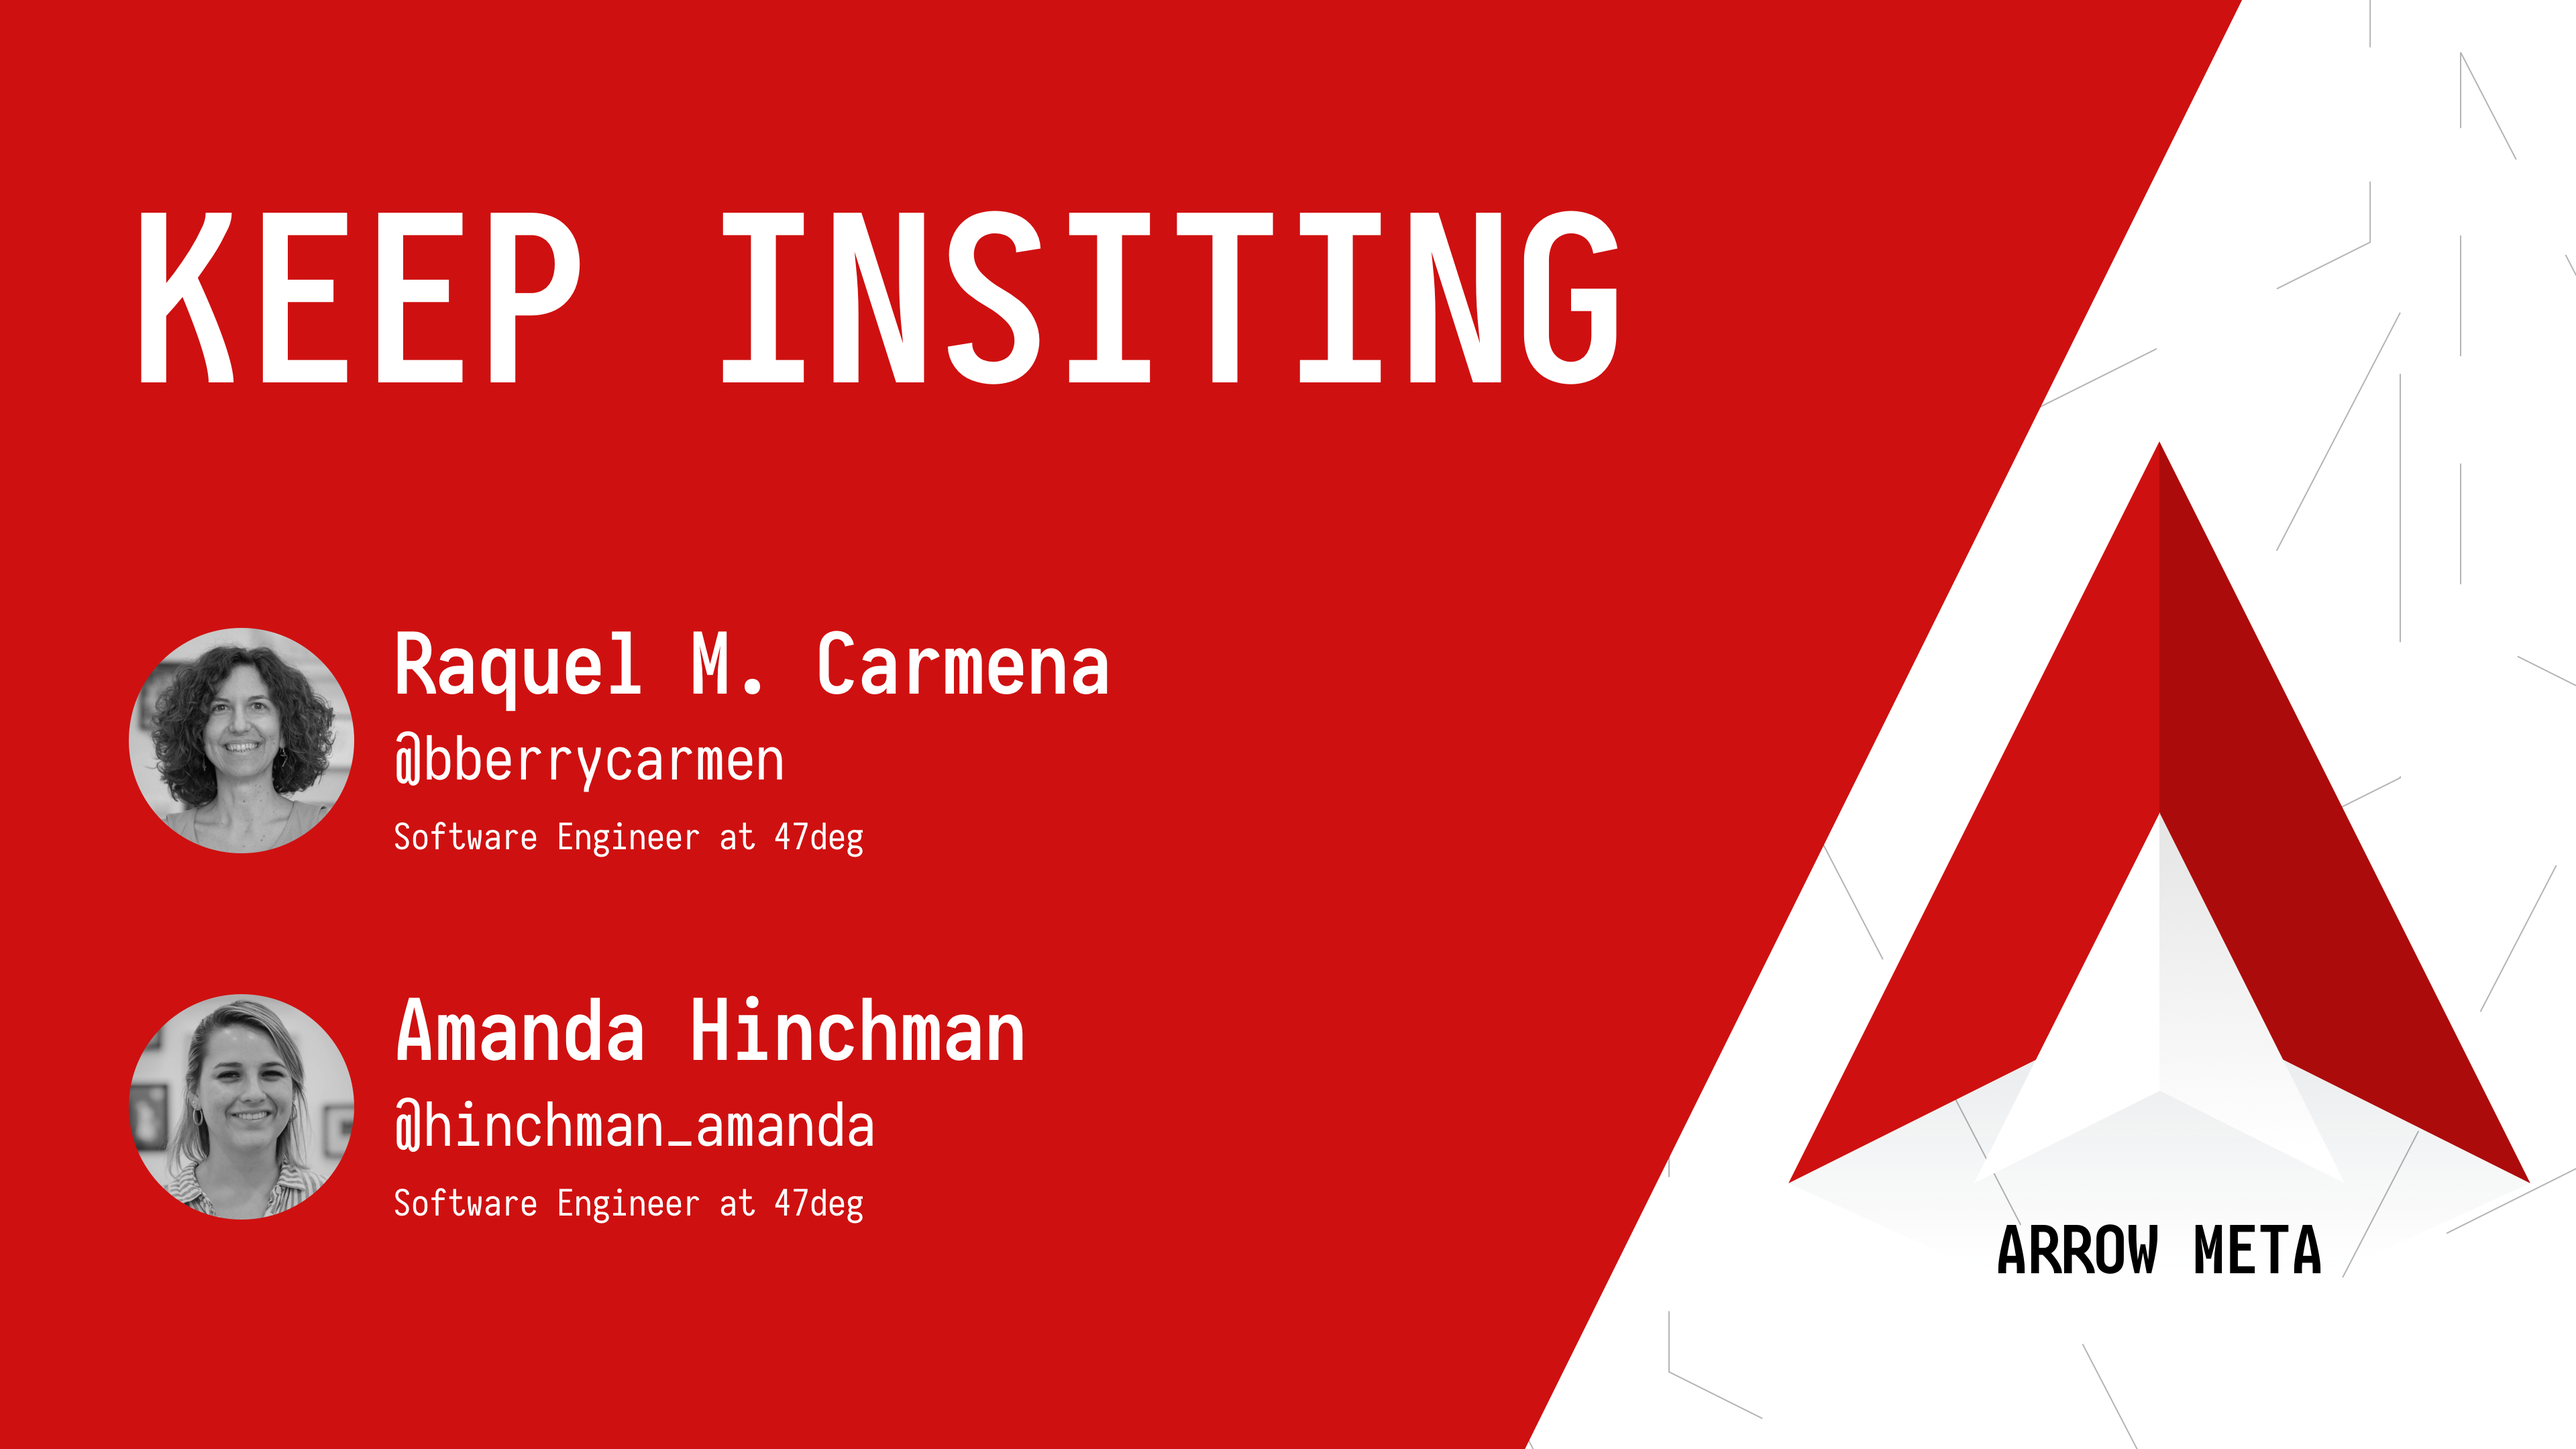
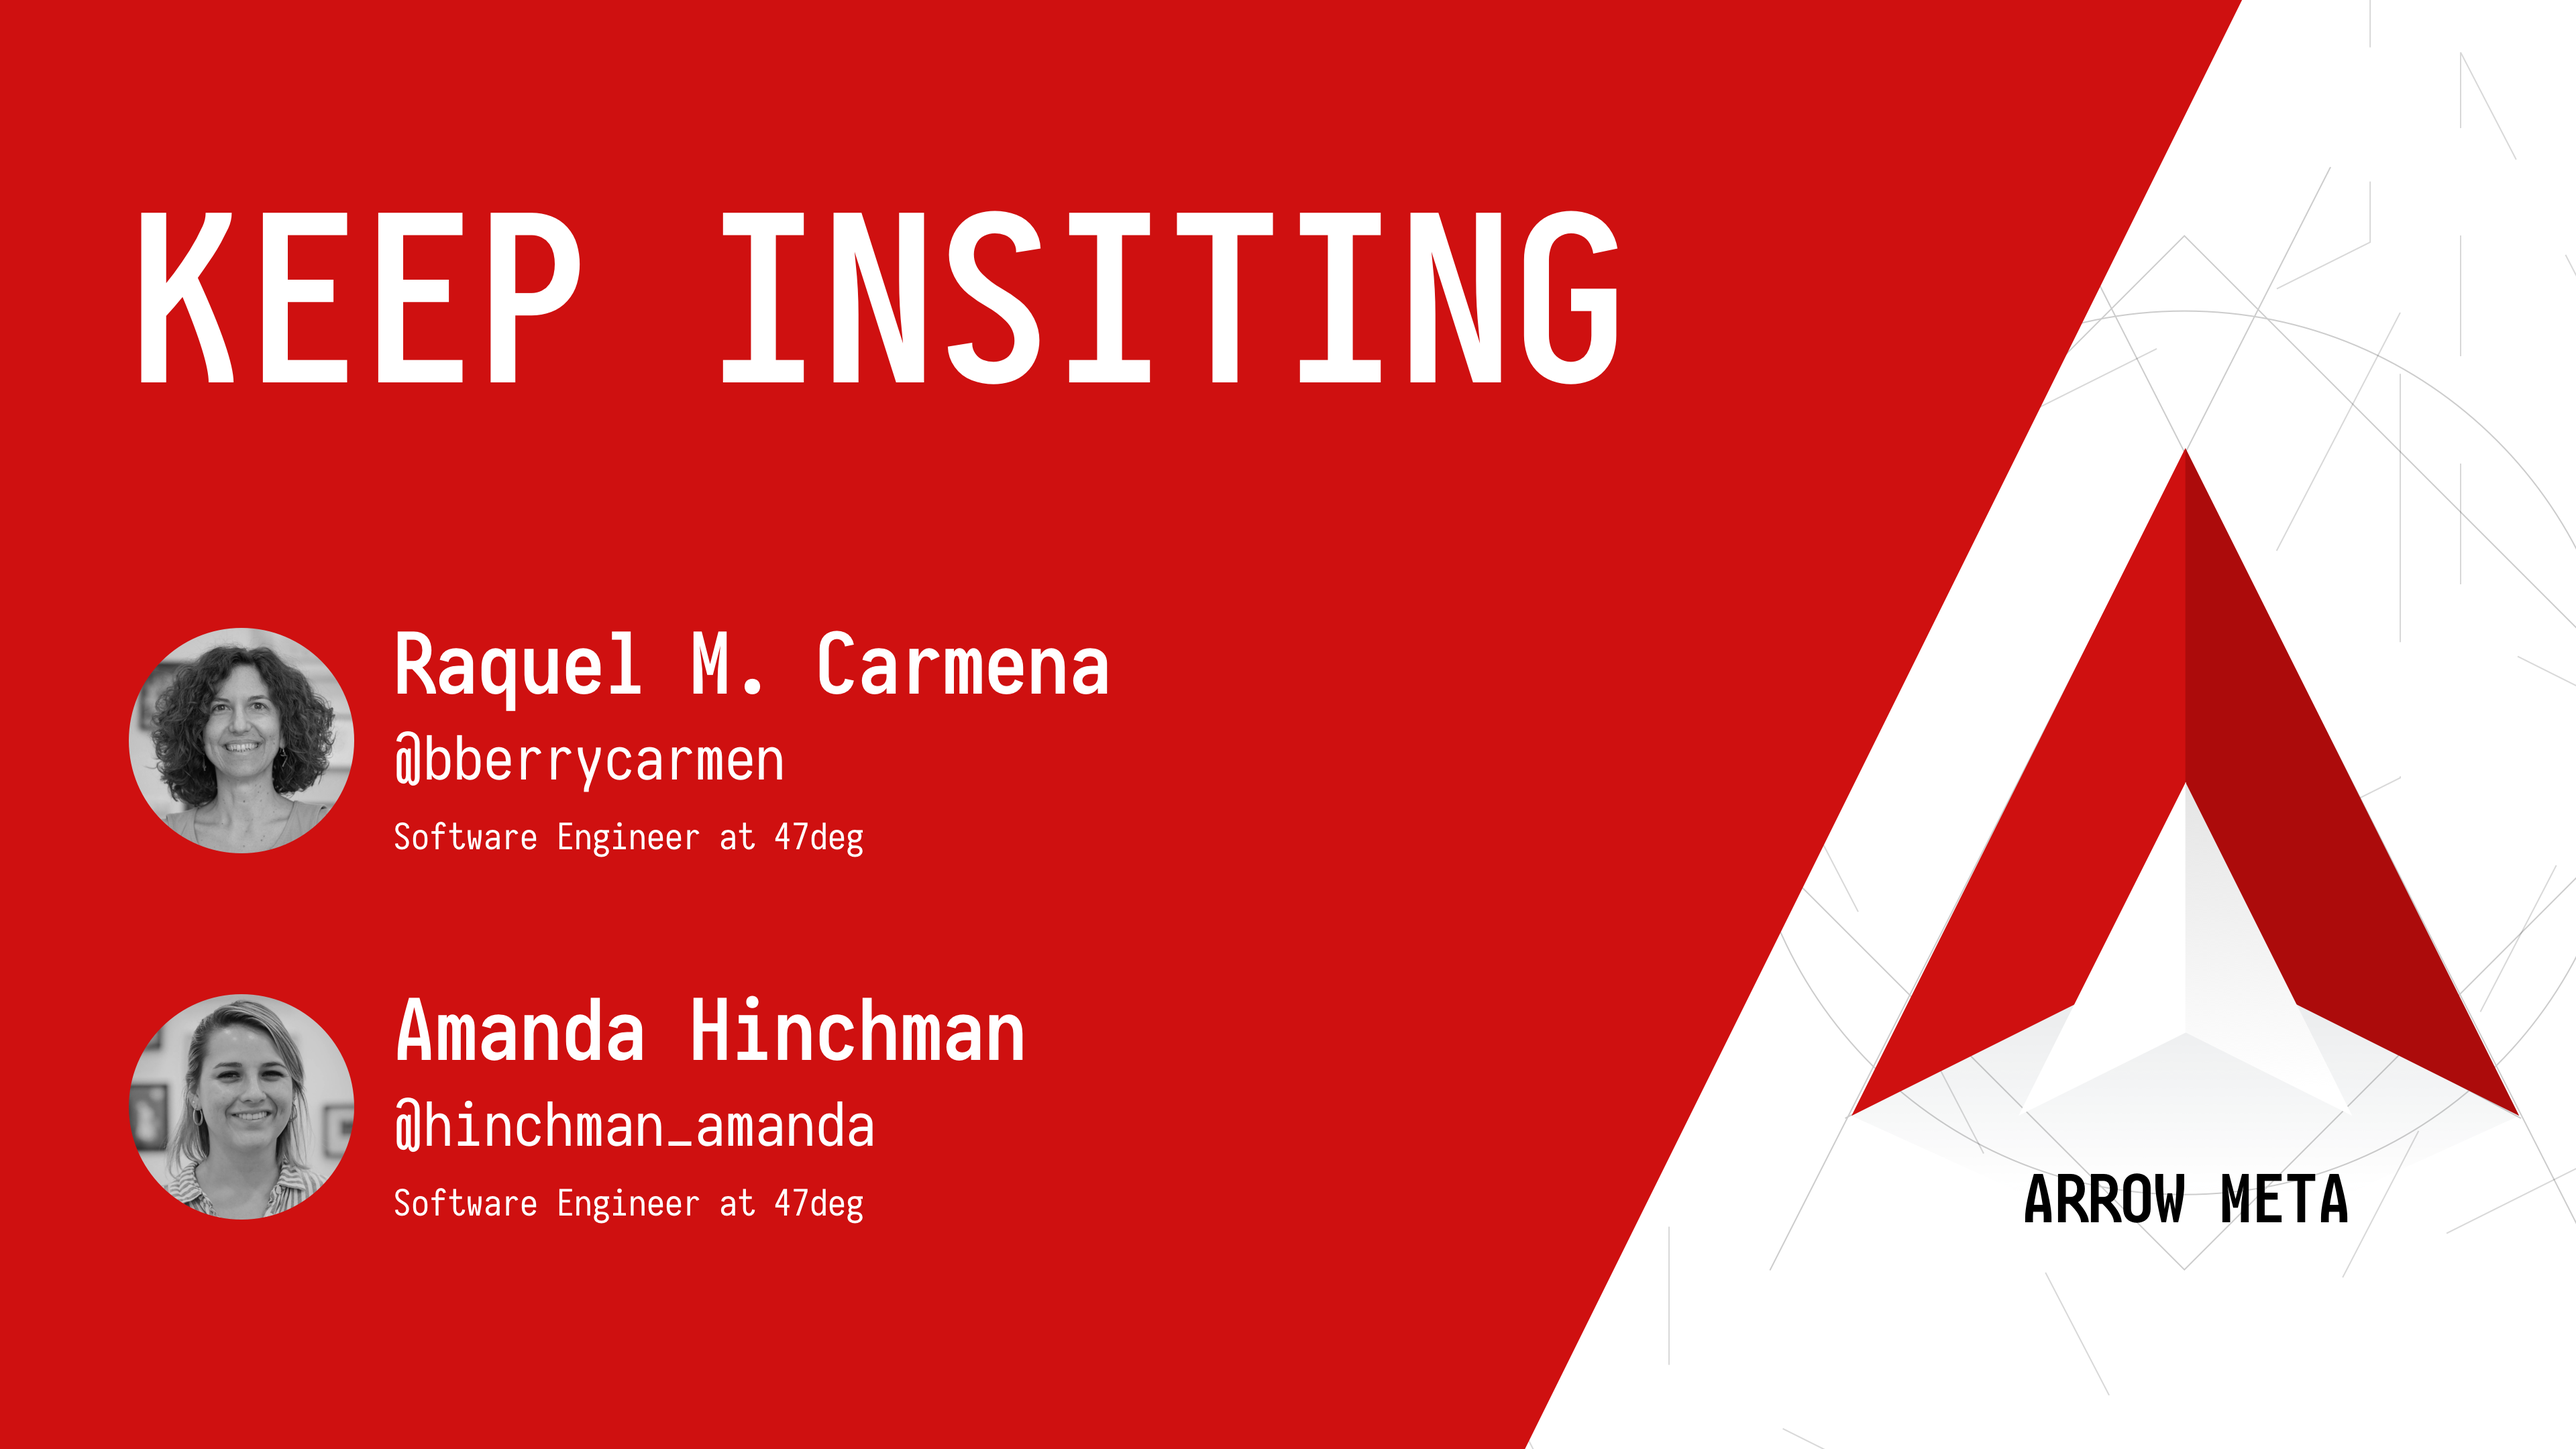
add new background

Changed region(s): [[0.7812, 0.3102, 1.0, 0.8065], [0.6875, 0.5273, 0.8125, 0.8065], [0.7812, 0.8065, 0.9375, 0.8995]]

diff --git a/index.html b/index.html
@@ -1,56 +1,88 @@
 <!doctype html>
 <html>
-	<head>
-		<meta charset="utf-8">
-		<meta name="viewport" content="width=device-width, initial-scale=1.0, maximum-scale=1.0, user-scalable=no">
 
-		<title>reveal.js</title>
+<head>
+    <meta charset="utf-8">
+    <meta name="viewport" content="width=device-width, initial-scale=1.0, maximum-scale=1.0, user-scalable=no">
 
-		<link rel="stylesheet" href="css/reset.css">
-		<link rel="stylesheet" href="css/reveal.css">
-		<link rel="stylesheet" href="css/theme/arrow-meta.css">
+    <title>reveal.js</title>
 
-		<!-- Theme used for syntax highlighting of code -->
-		<link rel="stylesheet" href="lib/css/monokai.css">
+    <link rel="stylesheet" href="css/reset.css">
+    <link rel="stylesheet" href="css/reveal.css">
+    <link rel="stylesheet" href="css/theme/arrow-meta.css">
 
-		<!-- Printing and PDF exports -->
-		<script>
-			var link = document.createElement( 'link' );
-			link.rel = 'stylesheet';
-			link.type = 'text/css';
-			link.href = window.location.search.match( /print-pdf/gi ) ? 'css/print/pdf.css' : 'css/print/paper.css';
-			document.getElementsByTagName( 'head' )[0].appendChild( link );
-		</script>
-	</head>
-	<body>
-		<div class="reveal">
-			<div class="slides">
-				<section data-background-image="img/arrow-meta-1.png">
-			       
+    <!-- Theme used for syntax highlighting of code -->
+    <link rel="stylesheet" href="lib/css/monokai.css">
 
-				</section>
-				
-				<section>
-				    slide2
-				</section>
-			       
-			</div>
-		</div>
+    <!-- Printing and PDF exports -->
+    <script>
+        var link = document.createElement('link');
+        link.rel = 'stylesheet';
+        link.type = 'text/css';
+        link.href = window.location.search.match(/print-pdf/gi) ? 'css/print/pdf.css' : 'css/print/paper.css';
+        document.getElementsByTagName('head')[0].appendChild(link);
+    </script>
+</head>
 
-		<script src="js/reveal.js"></script>
+<body>
+    <div class="reveal">
+        <div class="slides">
+            <section data-background-image="img/arrow-meta-1.png"> </section>
 
-		<script>
-			// More info about config & dependencies:
-			// - https://github.com/hakimel/reveal.js#configuration
-			// - https://github.com/hakimel/reveal.js#dependencies
-			Reveal.initialize({
-				dependencies: [
-					{ src: 'plugin/markdown/marked.js' },
-					{ src: 'plugin/markdown/markdown.js' },
-					{ src: 'plugin/notes/notes.js', async: true },
-					{ src: 'plugin/highlight/highlight.js', async: true }
-				]
-			});
-		</script>
-	</body>
+            <section>
+                <h3>Kotlin + Arrow</h3>
+            </section>
+            <section>
+                <h3>Compiler Arrow</h3>
+            </section>
+            <section>
+                <h3>Phone</h3>
+            </section>
+             <section>
+                <h3>Keep 87</h3>
+            </section>
+             <section>
+                <h3>Animation compilator</h3>
+            </section>
+            <section>
+                <h3>Animation</h3>
+            </section>
+            <section>
+                <h3>Animation Arrow -> Compiler</h3>
+            </section>
+            <section>
+                <h3>Plugin animation</h3>
+            </section>
+            <section data-background-image="img/arrow-meta-quote-template-1.png"></section>
+            <section data-background-image="img/arrow-meta-quote-template-2.png"></section>
+
+        </div>
+    </div>
+
+    <script src="js/reveal.js"></script>
+
+    <script>
+        // More info about config & dependencies:
+        // - https://github.com/hakimel/reveal.js#configuration
+        // - https://github.com/hakimel/reveal.js#dependencies
+        Reveal.initialize({
+            dependencies: [{
+                    src: 'plugin/markdown/marked.js'
+                },
+                {
+                    src: 'plugin/markdown/markdown.js'
+                },
+                {
+                    src: 'plugin/notes/notes.js',
+                    async: true
+                },
+                {
+                    src: 'plugin/highlight/highlight.js',
+                    async: true
+                }
+            ]
+        });
+    </script>
+</body>
+
 </html>
